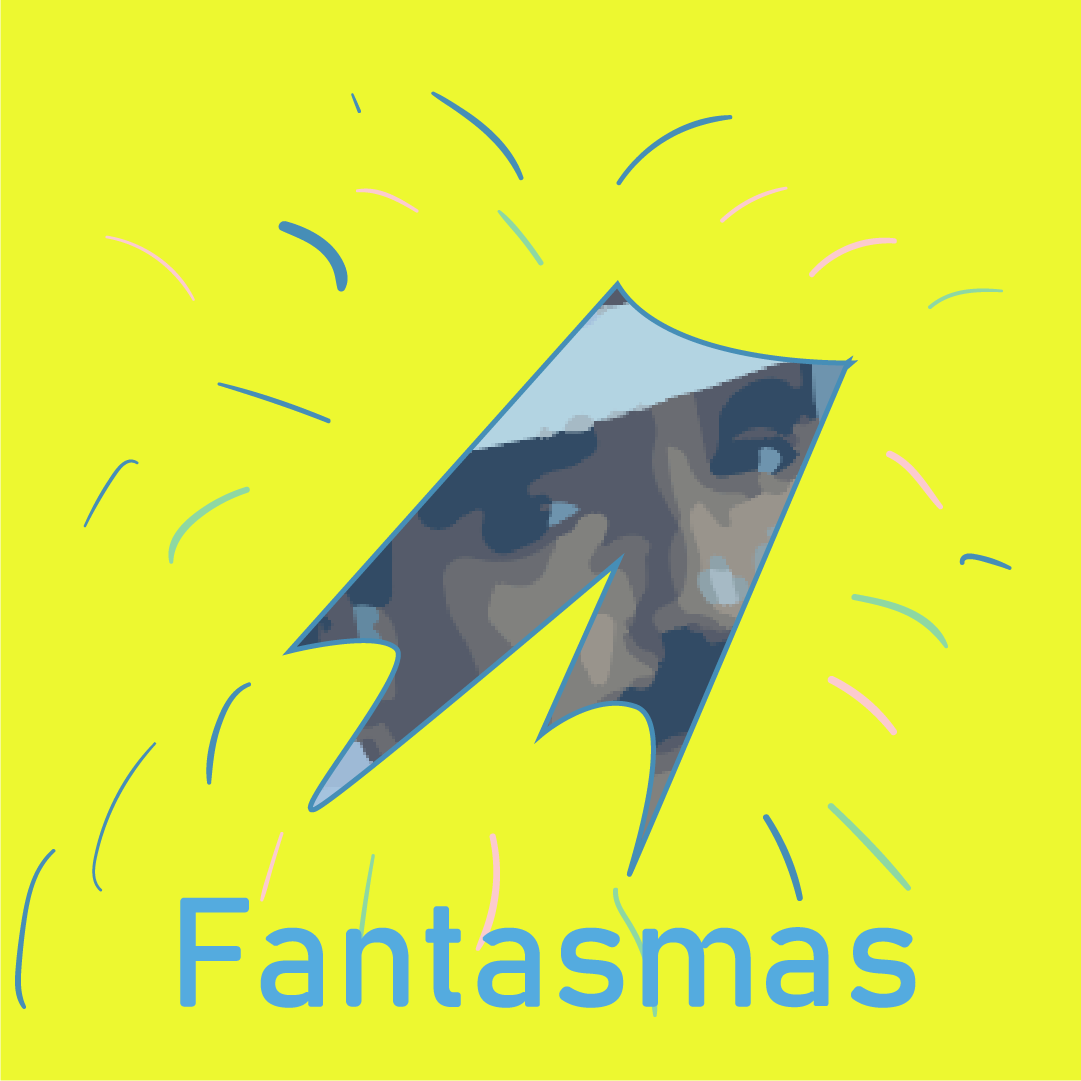
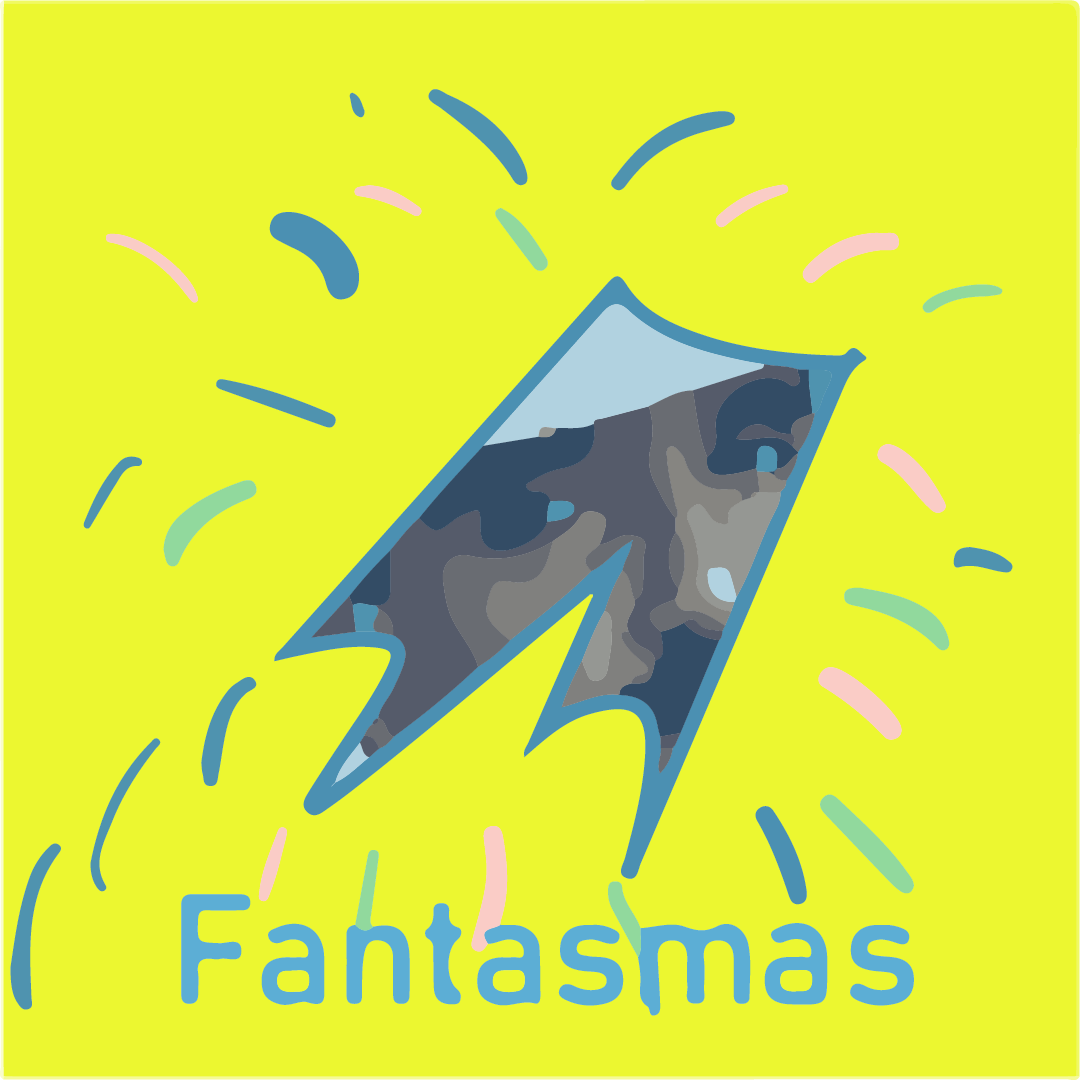
frfr

diff --git a/index.html b/index.html
@@ -55,9 +55,9 @@
                     <a class="showmore"><p class="more">
                         The album named "fantasmas" by Willie Colon is great in very many levels,
                         only thing is the cover. The original cover you can find by
-                        <label id="https://www.cesarmiguelrondon.com/wp-content/uploads/2012/10/Willie_Colon-Fantasmas.jpg">clicking here</label>
+                        <label id=".\picture.html?img=N1.png">clicking here</label>
                         the one that is being used by spotify and many other music streaming services is
-                        <label id="https://1.bp.blogspot.com/-QCauMzGUNGA/YBHenfyMYxI/AAAAAAAALzs/UCqk2TARXA8WCCo4E6B7-rT2DwlIQ5xnwCLcBGAsYHQ/s1600/Fantasmas%2B-%2BAlbum-600-cover.jpg">this one</label>.
+                        <label id=".\picture.html?img=N2.png">this one</label>.
                         I redesigned it using adobe illustrator, for a color palette I used magic man from adventure time, the actual vynil cover can be found by <label id=".\picture.html?img=fantasmas-cover.png">clicking here</label>
                         this was done the 18th of november, 2021 :/
                     </p><p class="normal button">Show more...</p></a>

diff --git a/README.md b/README.md
@@ -2,7 +2,7 @@
  Portafolio of all my work
 
 # TODO
- - Fine detailing
+ - ~~Fine detailing~~
 
 ## current problems
  The webpage is not phone friendly, not sure if I ever will make it phone friendly.
